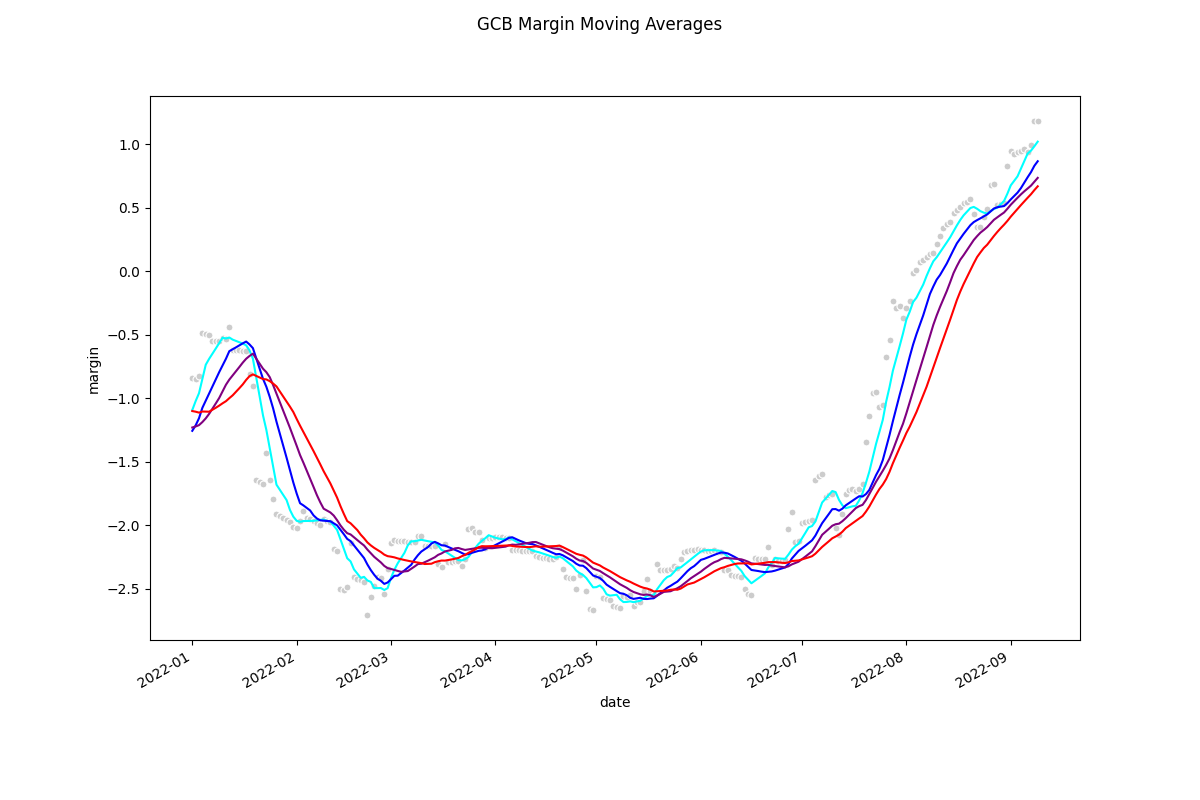
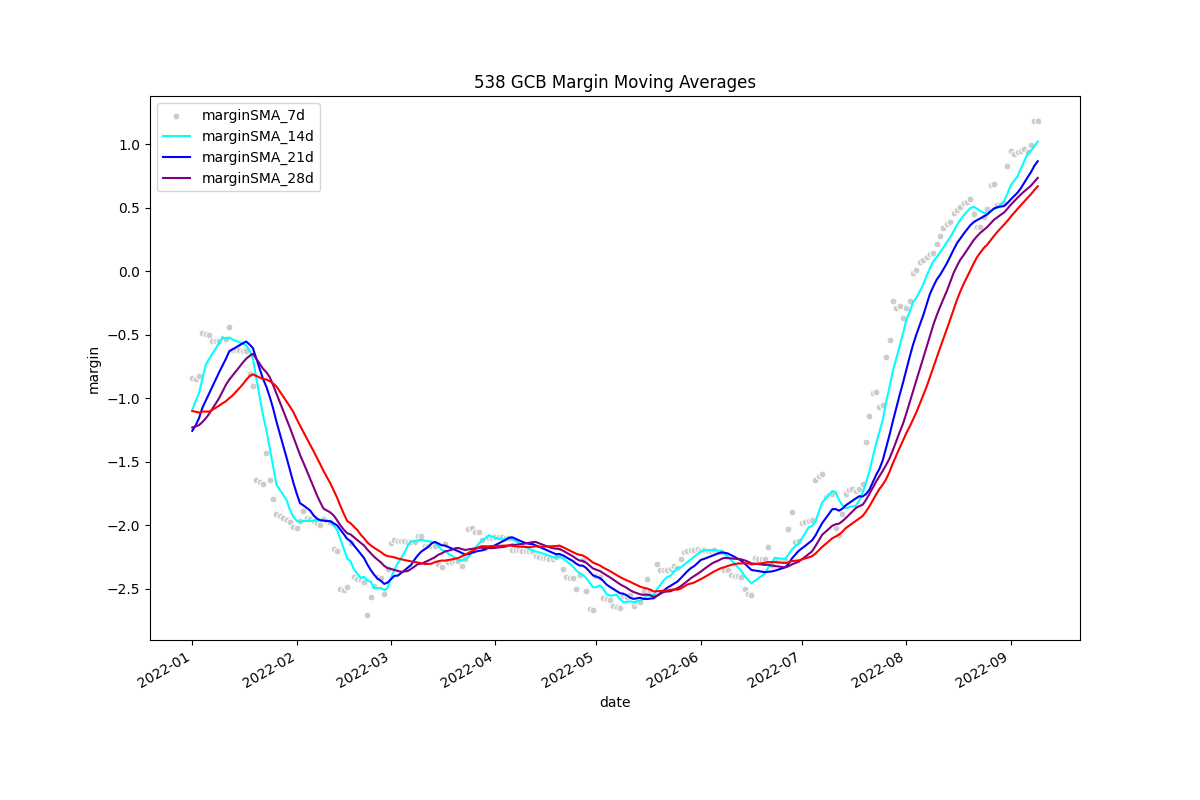
Update plot creation

Changed region(s): [[0.1542, 0.125, 0.2775, 0.25], [0.4008, 0.0, 0.5858, 0.0625], [0.4008, 0.0938, 0.6167, 0.125]]

diff --git a/task.py b/task.py
@@ -118,8 +118,11 @@ def _refresh_gcb_rolling_means() -> None:
     df['margin'] = df.dem - df.rep
     # for i in (7,):
     #     df[f'marginEMA{i}d'] = df.margin.ewm(i).mean()
-    for i in (7, 14, 21, 28):
-        df[f'marginSMA{i}d'] = df.margin.rolling(i).mean()
+    legend_labels = []
+    for day_period in (7, 14, 21, 28):
+        col_name = f'marginSMA_{day_period}d'
+        df[col_name] = df.margin.rolling(day_period).mean()
+        legend_labels.append(col_name)
 
     df = df.dropna()
     df = df[df.date >= date(2022, 1, 1)].copy()
@@ -127,15 +130,15 @@ def _refresh_gcb_rolling_means() -> None:
     df.to_csv(gcb_polls_movement.FOLDER + 'GCB Average Movement.csv', index=False)
 
     plt = sns.scatterplot(data=df, x='date', y='margin', s=100, color='.8', marker='.')
-    sns.lineplot(data=df, x='date', y='marginSMA7d', color='cyan')
-    sns.lineplot(data=df, x='date', y='marginSMA14d', color='blue')
-    sns.lineplot(data=df, x='date', y='marginSMA21d', color='purple')
-    sns.lineplot(data=df, x='date', y='marginSMA28d', color='red')
+    for y_col, color in zip(legend_labels, ['cyan', 'blue', 'purple', 'red']):
+        sns.lineplot(data=df, x='date', y=y_col, color=color)
+
+    plt.legend(labels=legend_labels)
+    plt.set_title('538 GCB Margin Moving Averages')
 
     fig = plt.get_figure()
     fig.autofmt_xdate()
     fig.set_size_inches(12, 8)
-    fig.suptitle('538 GCB Margin Moving Averages')
     fig.savefig(gcb_polls_movement.FOLDER + 'GCB Average Movement.png')
 
 
